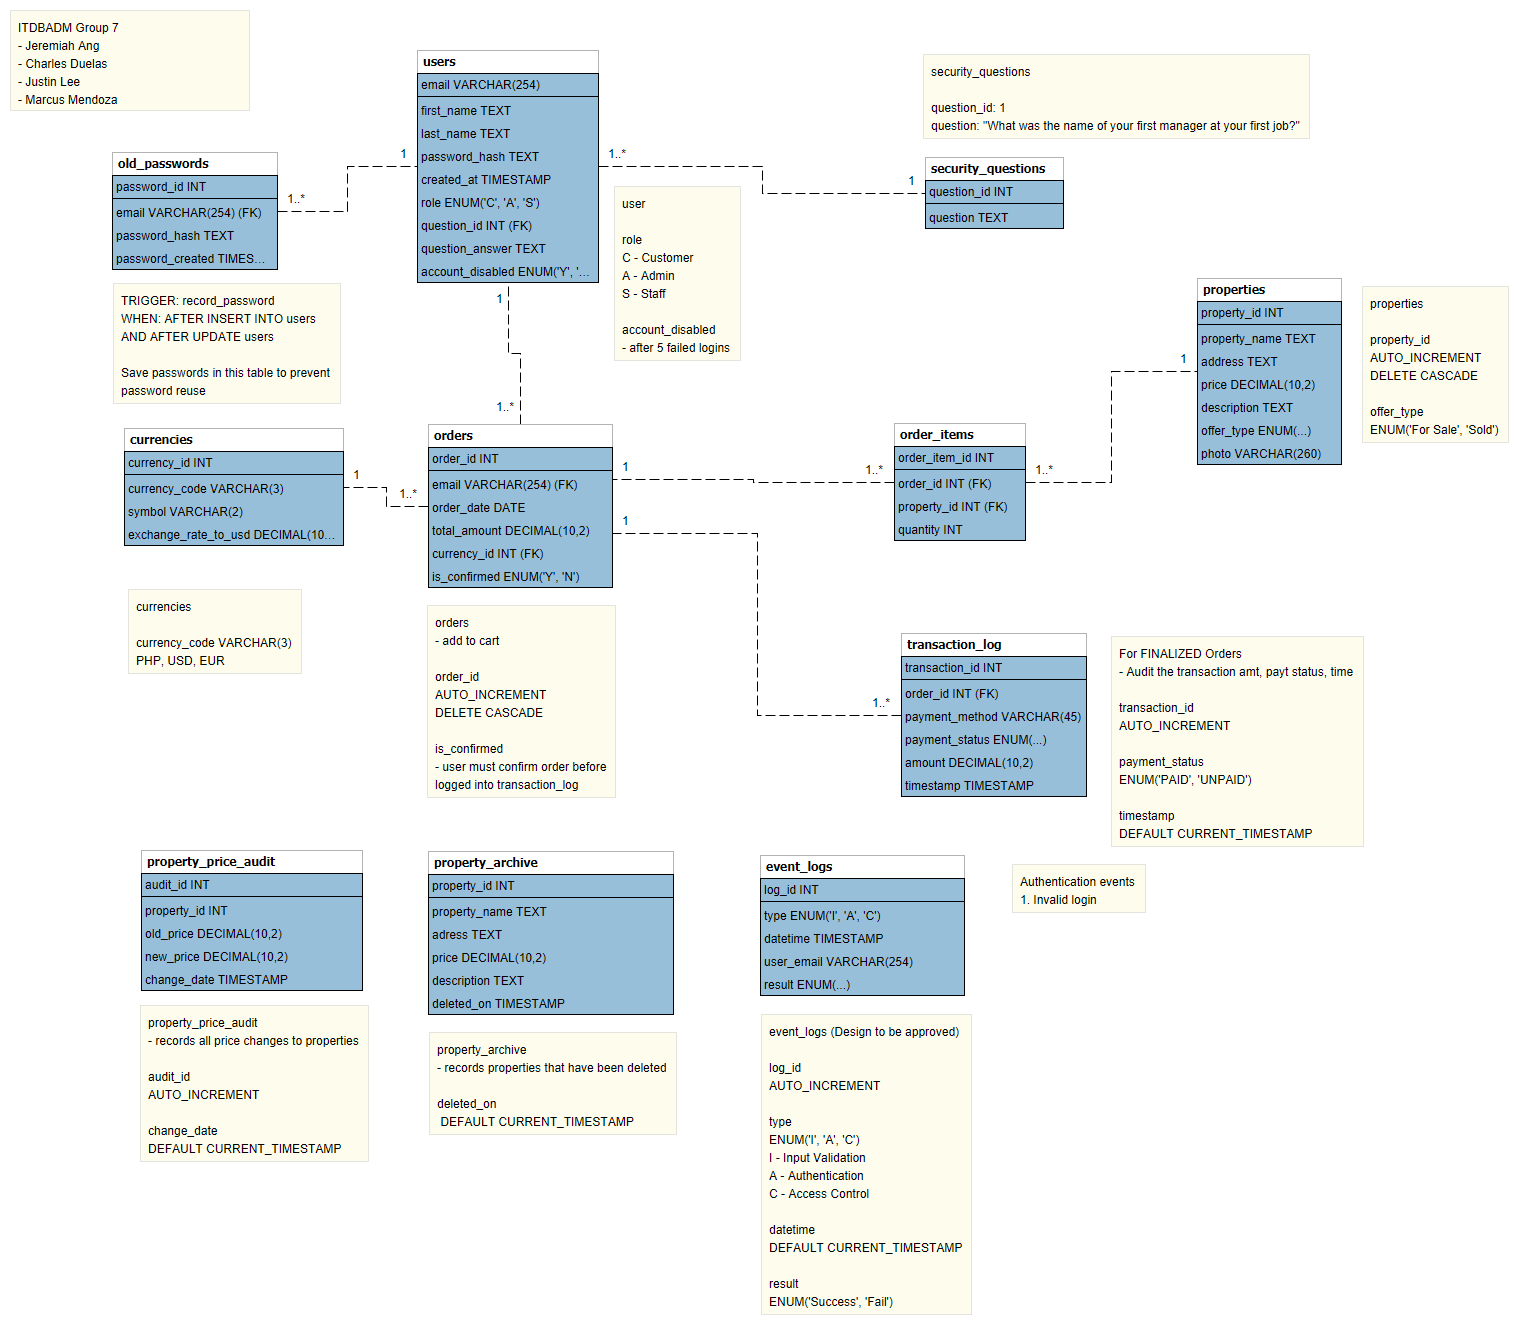
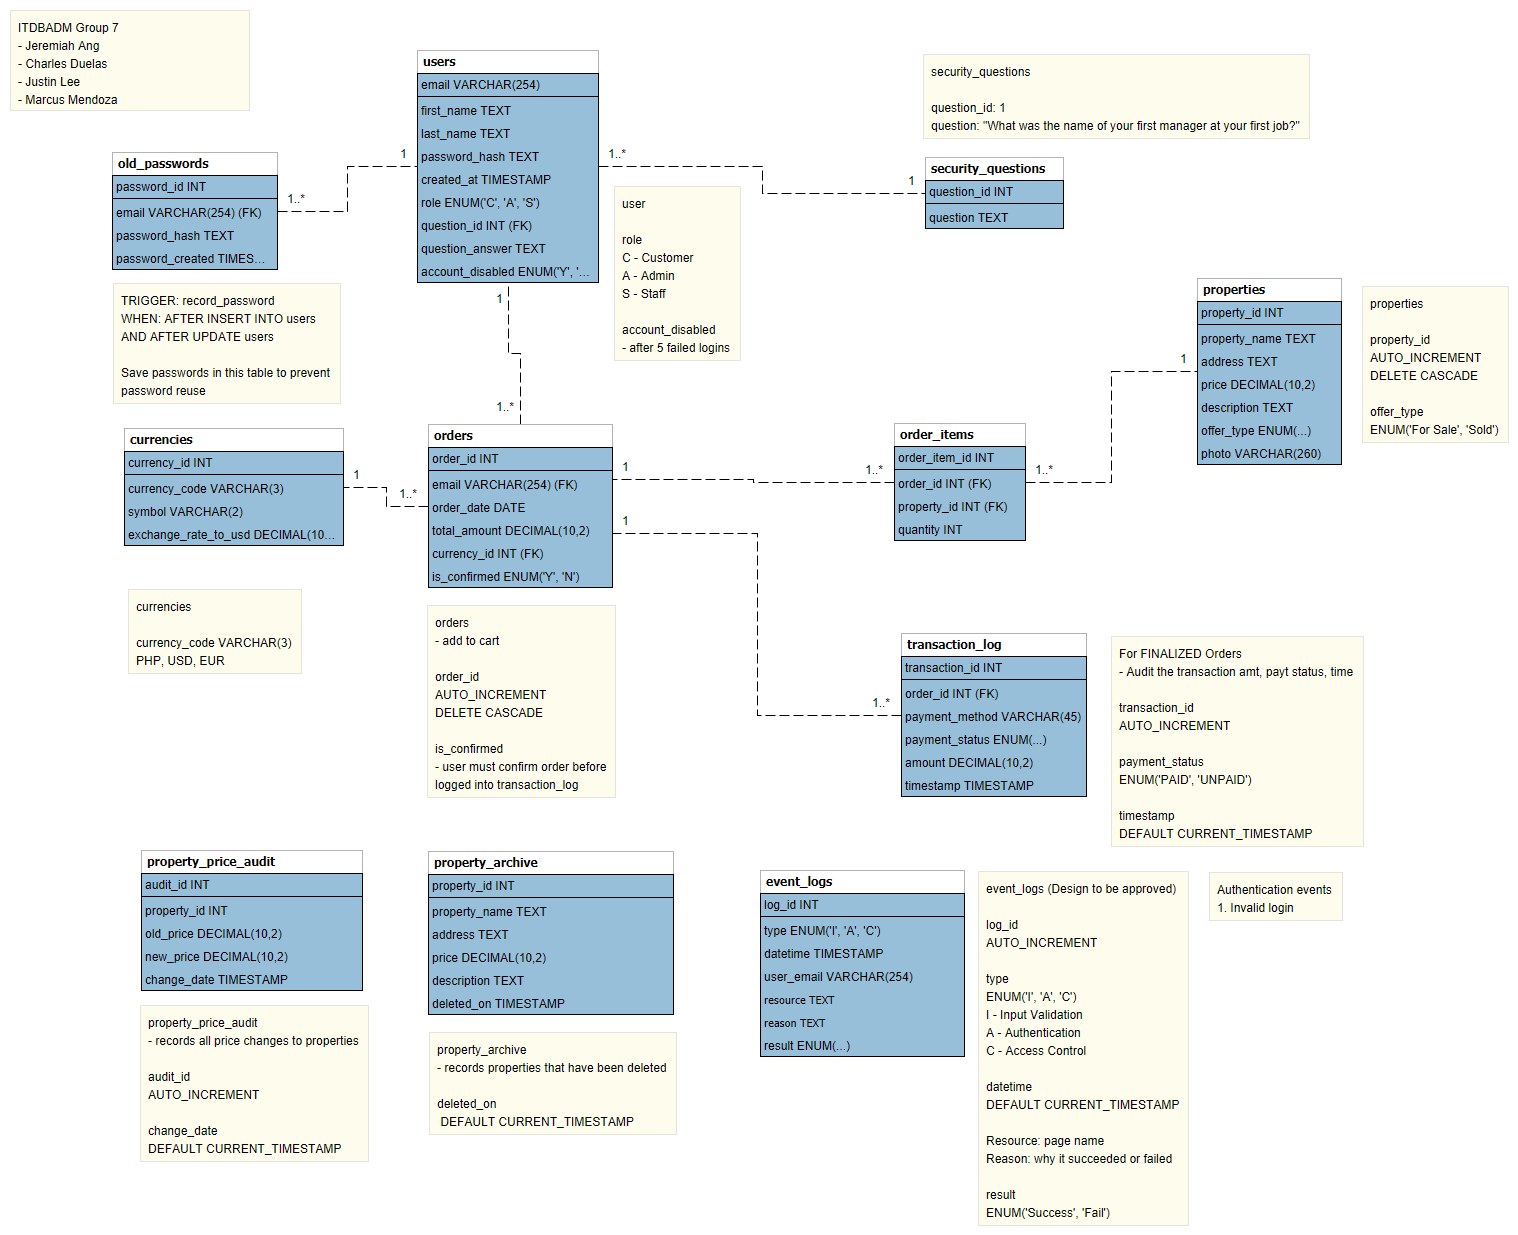
database: added "reason" and "resource" fields to event_logs

diff --git a/assets/php/login_controller.php b/assets/php/login_controller.php
@@ -7,6 +7,8 @@
 include('authentication.php');
 
 function login(&$conn) {
+    $resource = "/login";
+    $reason = "Wrong password entered";
     $status = "Fail";
     $fail_count = 0;
 
@@ -95,8 +97,9 @@ function login(&$conn) {
                 if( password_verify($password, $user['password_hash']) ){
 
                     // Log successful authentication to EVENT_LOGS table
+                    $reason = "Correct password submitted";
                     $status = "Success";
-                    logAuthentication($conn, $user['email'], $status);
+                    logAuthentication($conn, $user['email'], $resource, $reason, $status);
                     
                     // Set session variables
                     $_SESSION['user_email'] = $user['email'];
@@ -115,7 +118,9 @@ function login(&$conn) {
                     
                     echo "<p class='error-message'>Invalid email or password</p>";
                     $status = "Fail";
-                    logAuthentication($conn, $user['email'], $status);
+
+                    // logAuthentication(&$conn, $email, $resource, $reason, $status)
+                    logAuthentication($conn, $user['email'], $resource, $reason, $status);
                 }
 
             } // end of if ($result->num_rows == 1)

diff --git a/assets/php/authorization.php b/assets/php/authorization.php
@@ -1,16 +1,28 @@
 <?php
-   function adminAccess(){
-        if ($_SESSION['user_role'] != 'A' || $_SESSION['user_role'] != 'S') {
-            header("Location: login.php");
-            exit();
-        }
-   }
+function adminAccess(){
+    if ($_SESSION['user_role'] != 'A' || $_SESSION['user_role'] != 'S') {
+        header("Location: login.php");
+        exit();
+    }
+}
 
-   function customerAccess(){
-        if ($_SESSION['user_role'] != 'C') {
-            header("Location: login.php");
-            exit();
-        }
-   }
+function customerAccess(){
+    if ($_SESSION['user_role'] != 'C') {
+        header("Location: login.php");
+        exit();
+    }
+}
+
+// Log access control event to EVENT_LOGS table
+function logAuthorization(&$conn, $status) {
+
+    $type = 'C'; // Authentication Log
+
+    $log_stmt = $conn->prepare("CALL sp_log_event(?, ?, ?)");
+
+    $log_stmt->bind_param("sss", $type, $_SESSION['user_email'], $status);
+    $log_stmt->execute();
+
+}
 
 ?>

diff --git a/assets/php/authentication.php b/assets/php/authentication.php
@@ -35,13 +35,22 @@ function redirectUser($user){
 }
 
 // Log successful authentication to EVENT_LOGS table
-function logAuthentication(&$conn, $email, $status) {
+function logAuthentication(&$conn, $email, $resource, $reason, $status) {
 
     $type = 'A'; // Authentication Log
 
-    $log_stmt = $conn->prepare("CALL sp_log_event(?, ?, ?)");
+    /*
+        CREATE PROCEDURE sp_log_event
+        IN this_type VARCHAR(1),
+        IN this_user_email VARCHAR(254),
+        IN this_resource TEXT,
+        IN this_reason TEXT,
+        IN this_result VARCHAR(10)
+    
+    */
+    $log_stmt = $conn->prepare("CALL sp_log_event(?, ?, ?, ?, ?)");
 
-    $log_stmt->bind_param("sss", $type, $email, $status);
+    $log_stmt->bind_param("sssss", $type, $email, $resource, $reason, $status);
     $log_stmt->execute();
 
 }
